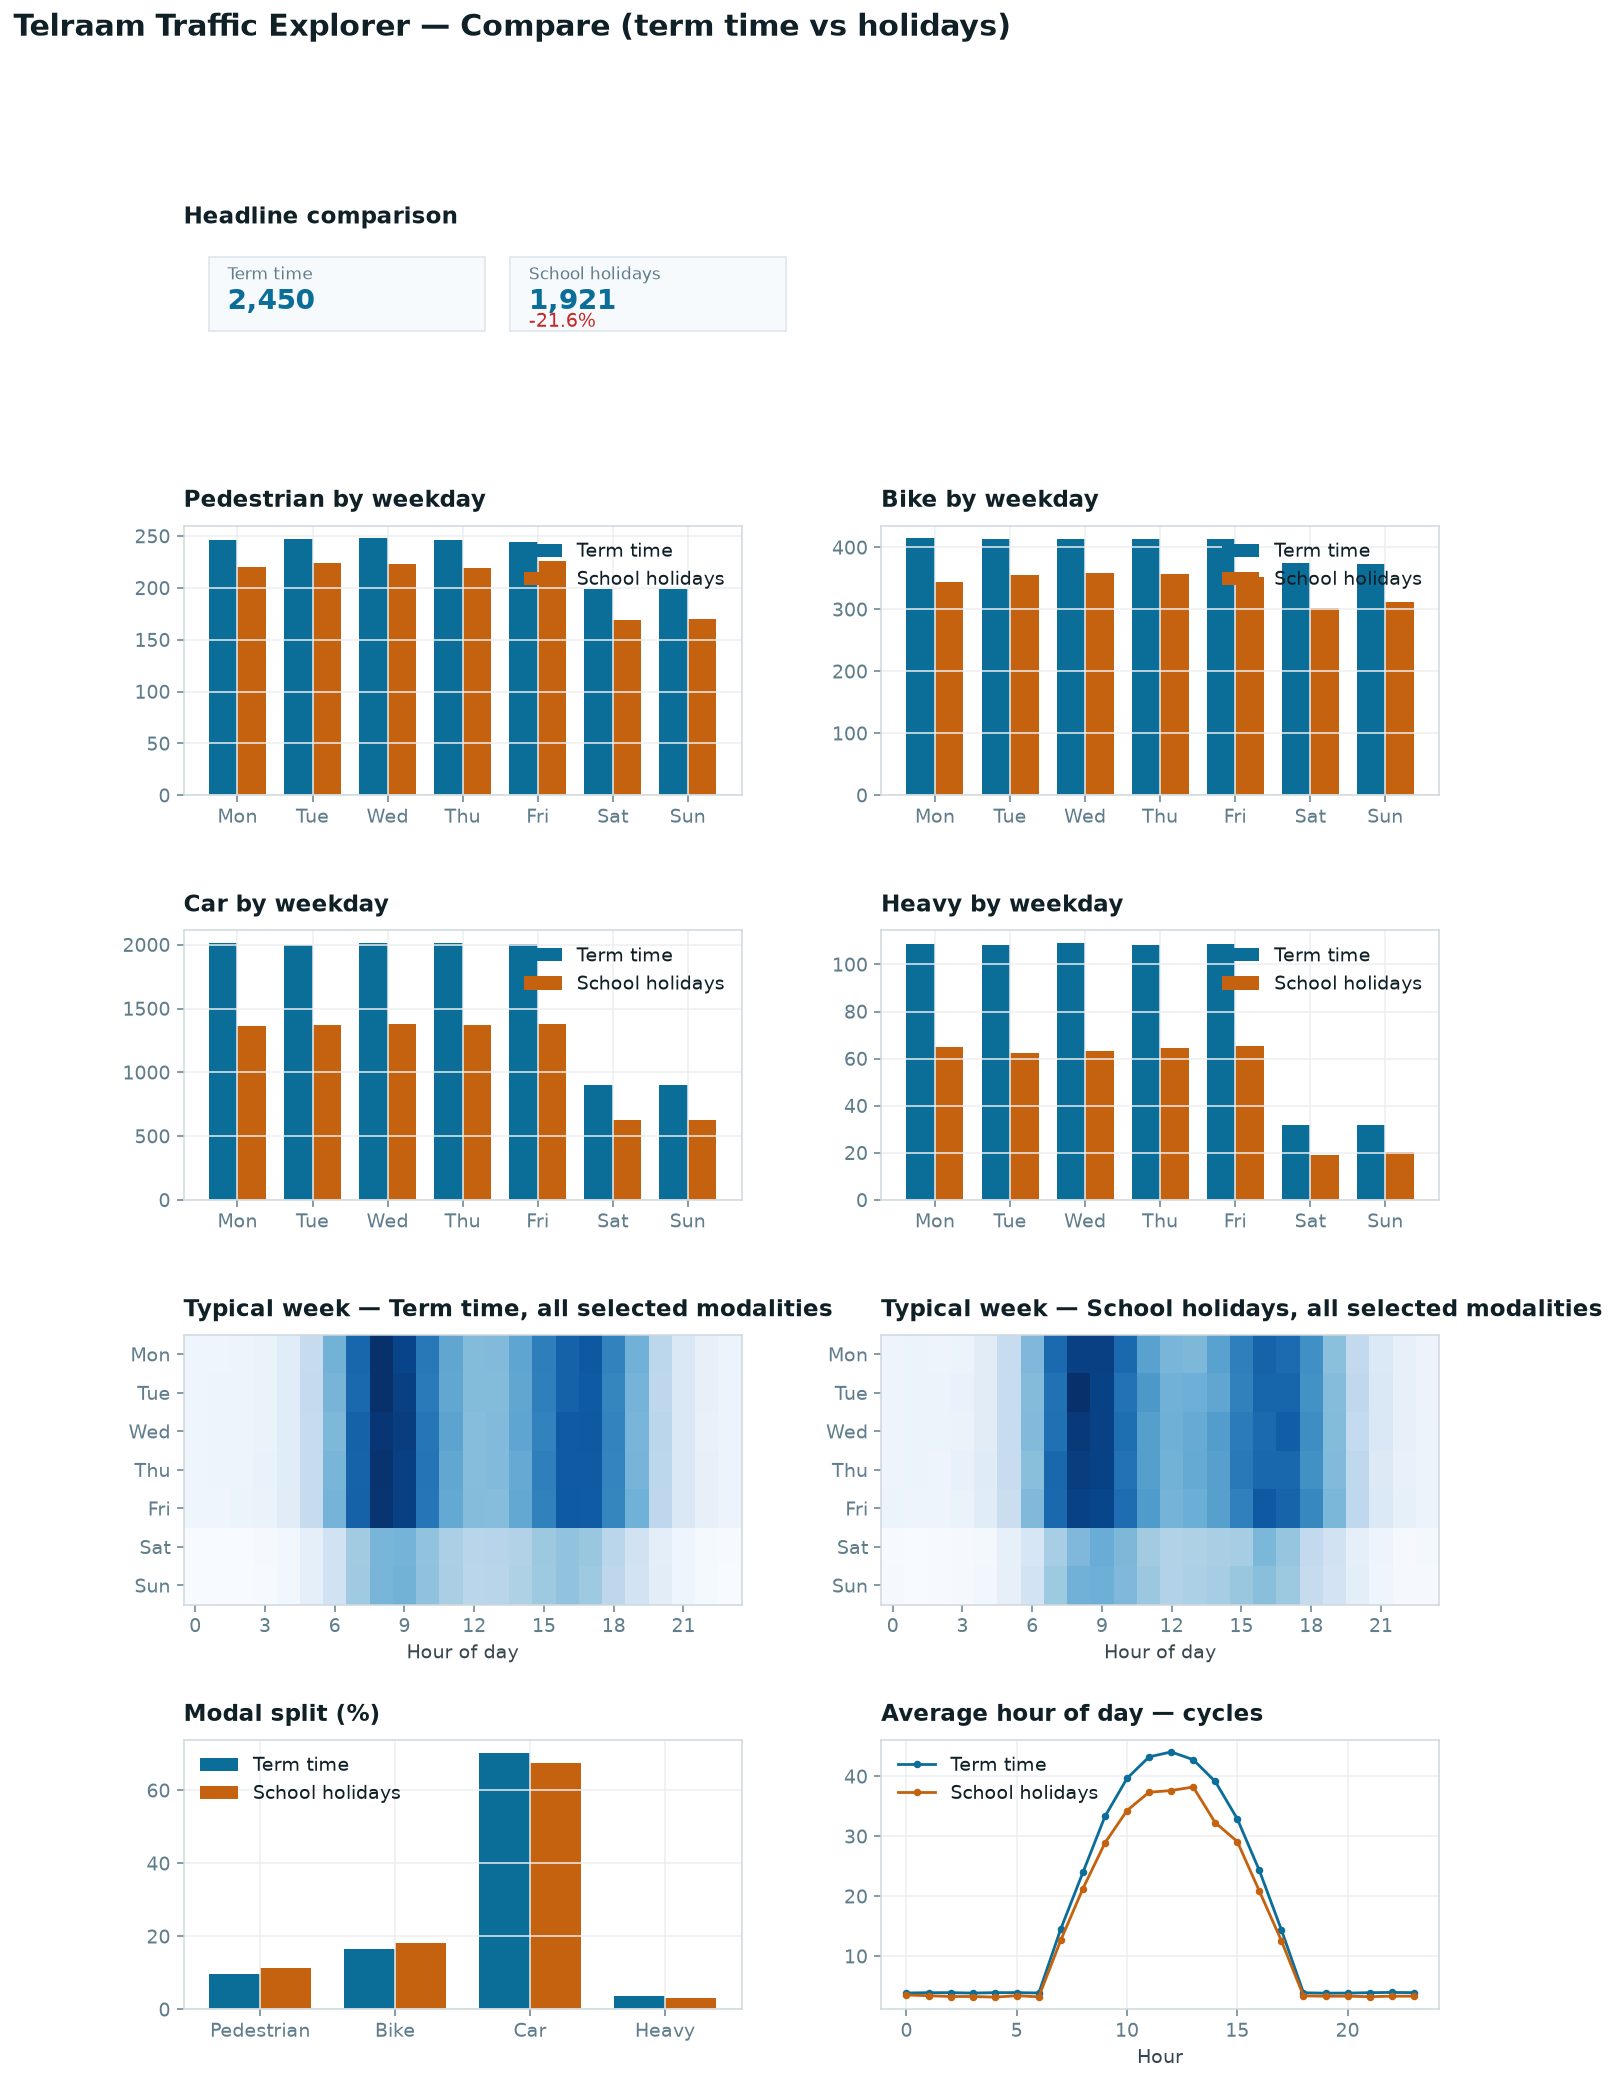
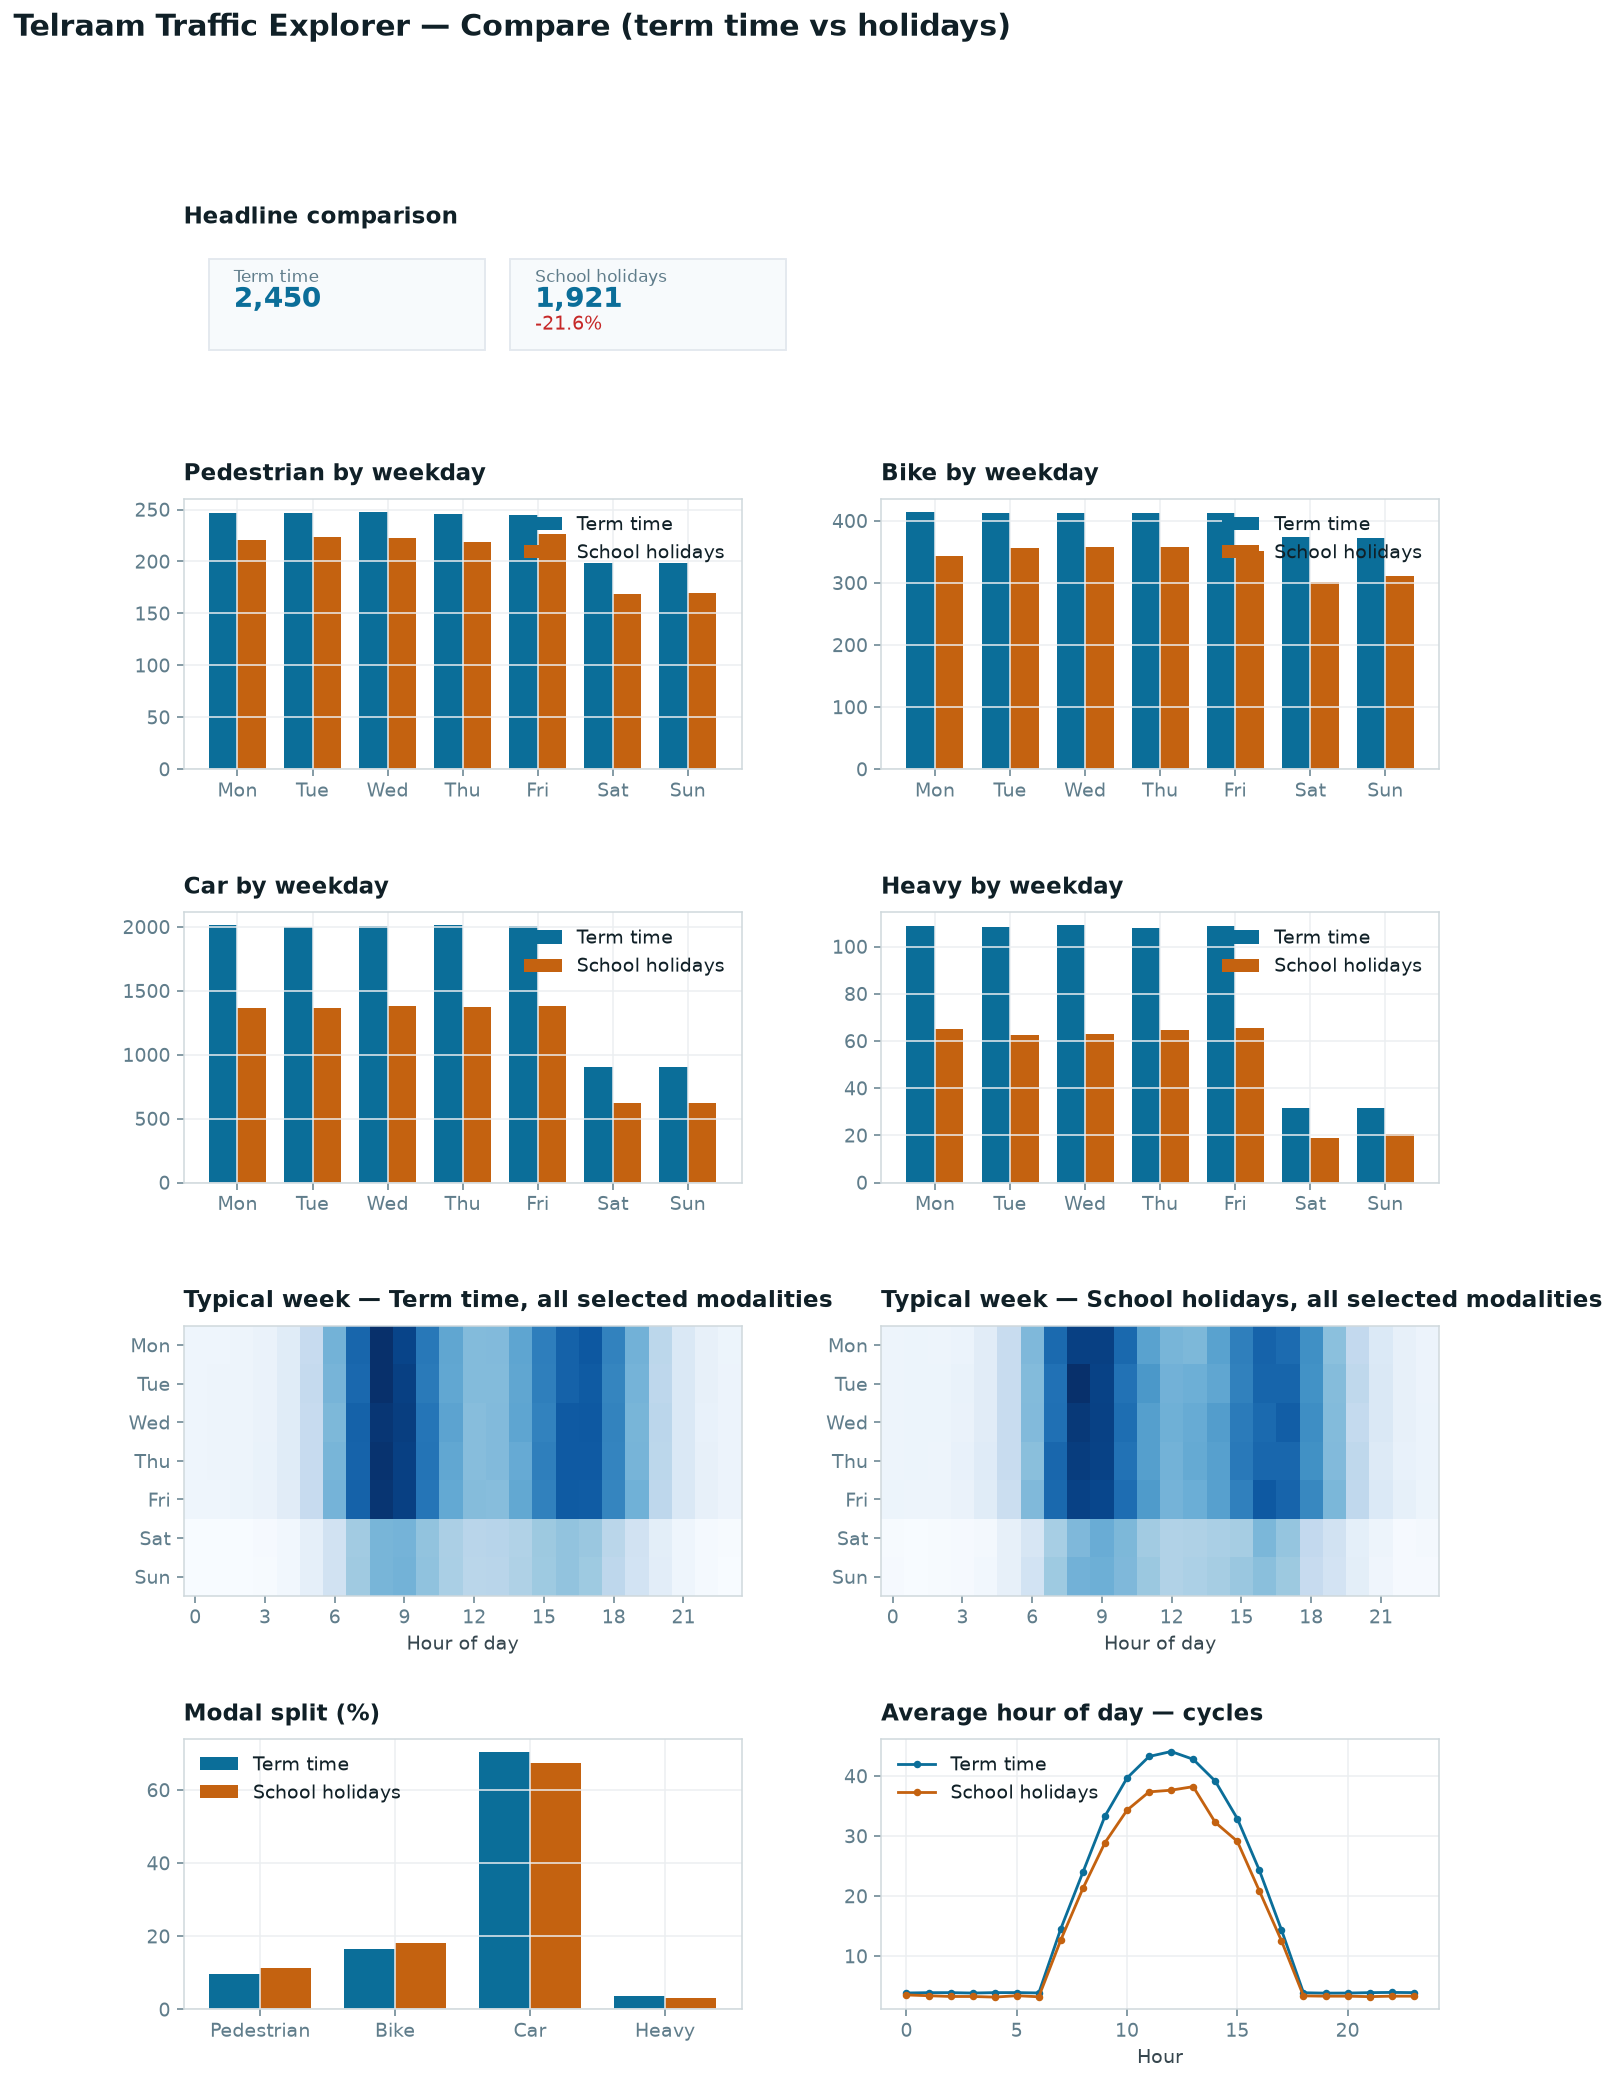
Give the headline cards a little padding

diff --git a/scripts/render_previews.py b/scripts/render_previews.py
@@ -210,19 +210,21 @@ def kpi_cards(ax, kpis):
     """Draw Streamlit-style metric cards. Each kpi: (label, value, delta?)."""
     ax.axis("off")
     width = min(0.22, 0.96 / max(len(kpis), 1) - 0.02)
+    bottom, top = 0.05, 0.85
     for i, (label, value, delta) in enumerate(kpis):
         x = 0.02 + i * 0.24
         ax.add_patch(
-            plt.Rectangle((x, 0.4), width, 0.5, transform=ax.transAxes,
-                          facecolor="#f7fafc", edgecolor="#e3e8ee")
+            plt.Rectangle((x, bottom), width, top - bottom,
+                          transform=ax.transAxes, facecolor="#f7fafc",
+                          edgecolor="#e3e8ee")
         )
-        ax.text(x + 0.015, 0.75, label, transform=ax.transAxes,
+        ax.text(x + 0.02, top - 0.2, label, transform=ax.transAxes,
                 fontsize=9, color="#607d8b")
-        ax.text(x + 0.015, 0.55, value, transform=ax.transAxes,
+        ax.text(x + 0.02, top - 0.42, value, transform=ax.transAxes,
                 fontsize=15, color="#0b6e99", fontweight="bold")
         if delta:
             colour = "#2e7d32" if delta.startswith("+") else "#c62828"
-            ax.text(x + 0.015, 0.43, delta, transform=ax.transAxes,
+            ax.text(x + 0.02, top - 0.62, delta, transform=ax.transAxes,
                     fontsize=10, color=colour)
 
 
@@ -357,7 +359,7 @@ def render_compare(out_dir: Path, dpi: int):
 
     fig = plt.figure(figsize=(12, 17))
     gs = fig.add_gridspec(
-        5, 2, hspace=0.55, wspace=0.25, height_ratios=[0.55, 1, 1, 1, 1]
+        5, 2, hspace=0.6, wspace=0.25, height_ratios=[0.42, 1, 1, 1, 1]
     )
 
     # Headline comparison: one card per group, deltas against the baseline.
